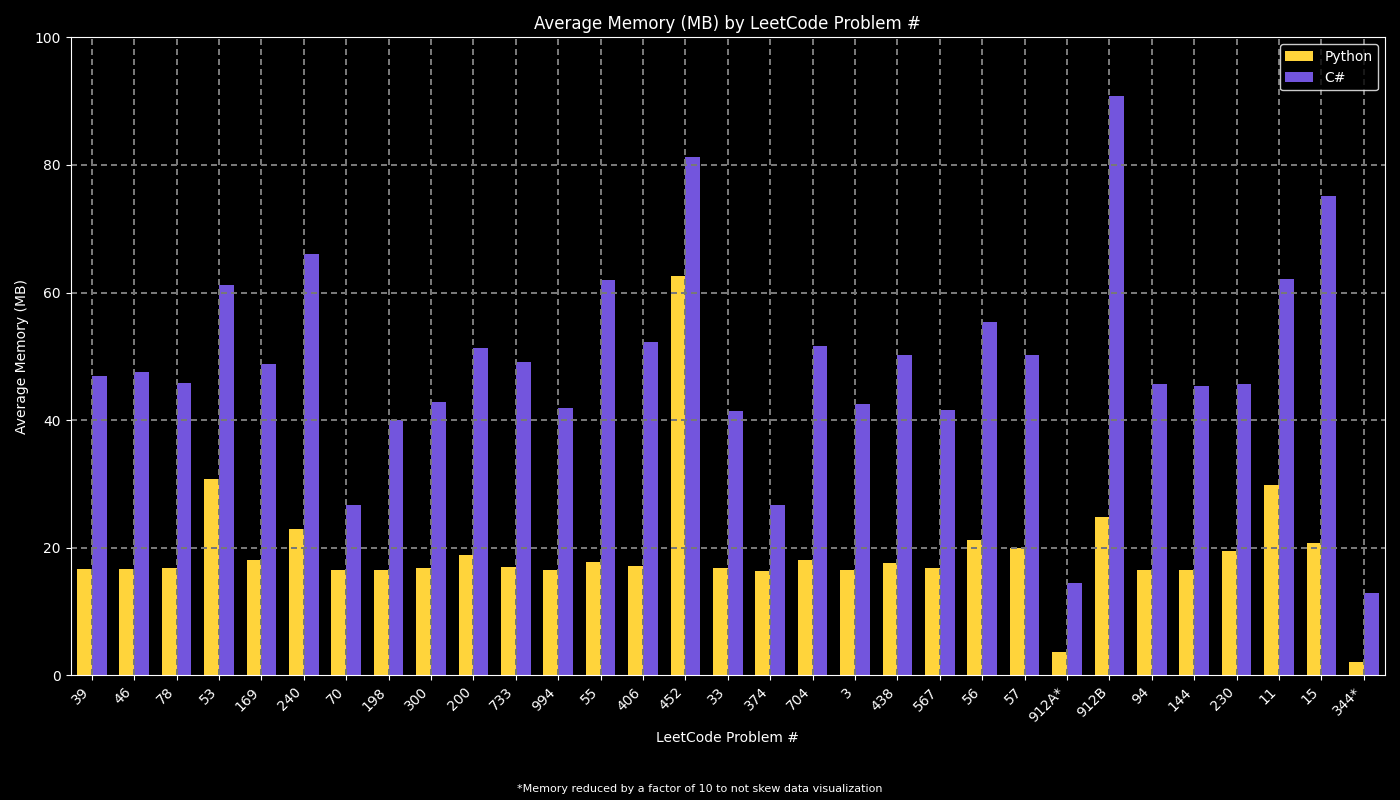
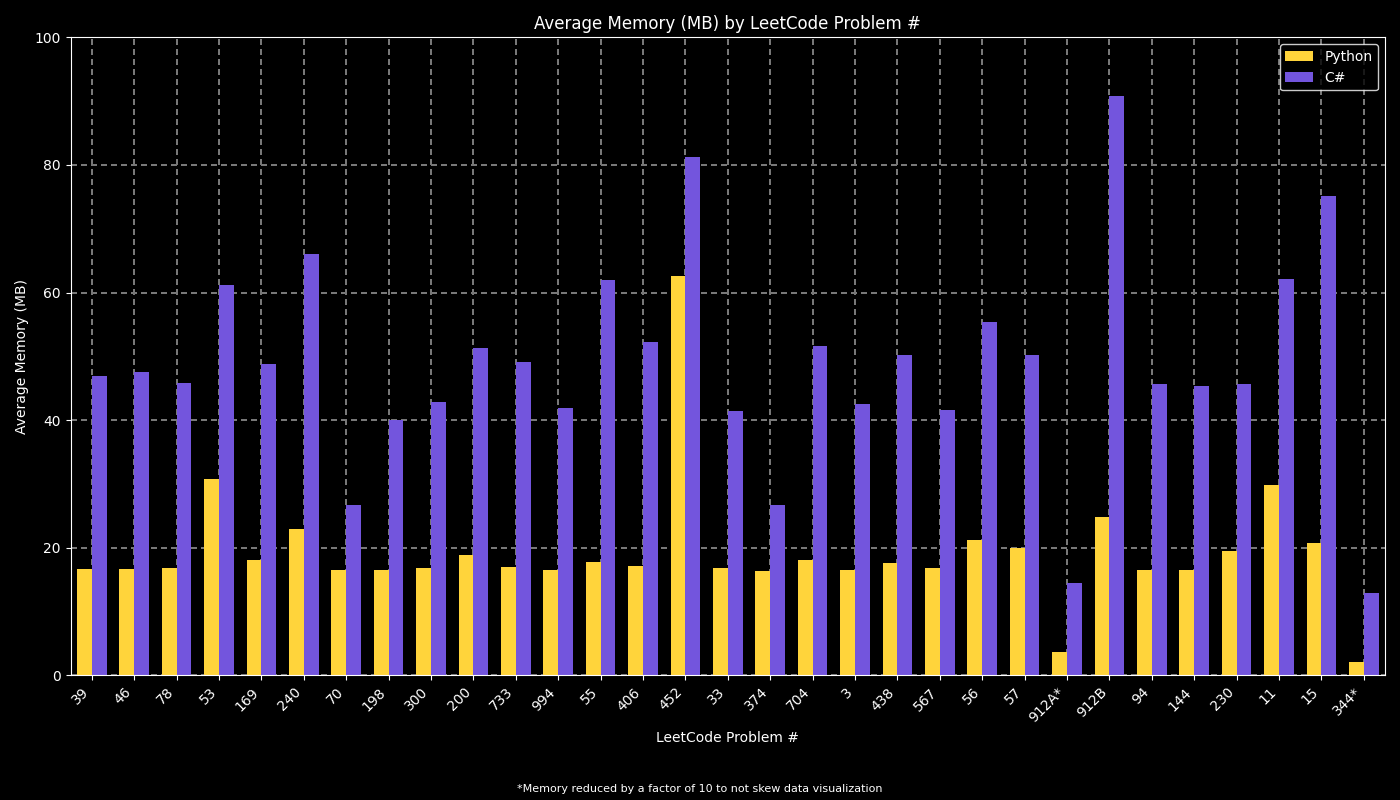
update visualizations

diff --git a/visualization.py b/visualization.py
@@ -37,8 +37,8 @@ def create_bar_graph(x, y1, y2, labels, title, y_label, filename, note, y_ticks,
     while full_y_ticks[-1] <= max_bar_value:
         full_y_ticks.append(full_y_ticks[-1] + y_tick_interval)
     
-    ax.bar(index, y1, bar_width, label='Python', color='#FFD43B')
-    ax.bar([i + bar_width for i in index], y2, bar_width, label='C#', color='#7355dd')
+    ax.bar(index, y1, bar_width, label='Python', color='#FFD43B', alpha=1.0, zorder=2)
+    ax.bar([i + bar_width for i in index], y2, bar_width, label='C#', color='#7355dd', alpha=1.0, zorder=2)
 
     ax.set_xlabel(labels['x_label'], color='white')
     ax.set_ylabel(y_label, color='white')
@@ -50,21 +50,18 @@ def create_bar_graph(x, y1, y2, labels, title, y_label, filename, note, y_ticks,
     ax.tick_params(colors='white')
     ax.legend(loc='upper right', facecolor='black', edgecolor='white', labelcolor='white')
     
-    # Use one opaque 2 px stroke for every grid line.
-    grid_style = dict(
+    # Keep every grid line at one opacity and behind the opaque bars.
+    ax.set_axisbelow(True)
+    ax.grid(
+        axis='both',
         color='#787878',
         linestyle=(0, (3, 2)),
         linewidth=1.44,
         alpha=1.0,
         antialiased=True,
         snap=True,
-        dash_capstyle='butt',
-        zorder=3
+        dash_capstyle='butt'
     )
-    for x_tick in x_ticks:
-        ax.axvline(x_tick, ymin=0, ymax=1, **grid_style)
-    for y_tick in full_y_ticks[1:-1]:
-        ax.axhline(y_tick, xmin=0, xmax=1, **grid_style)
 
     for spine in ax.spines.values():
         spine.set_color('white')
